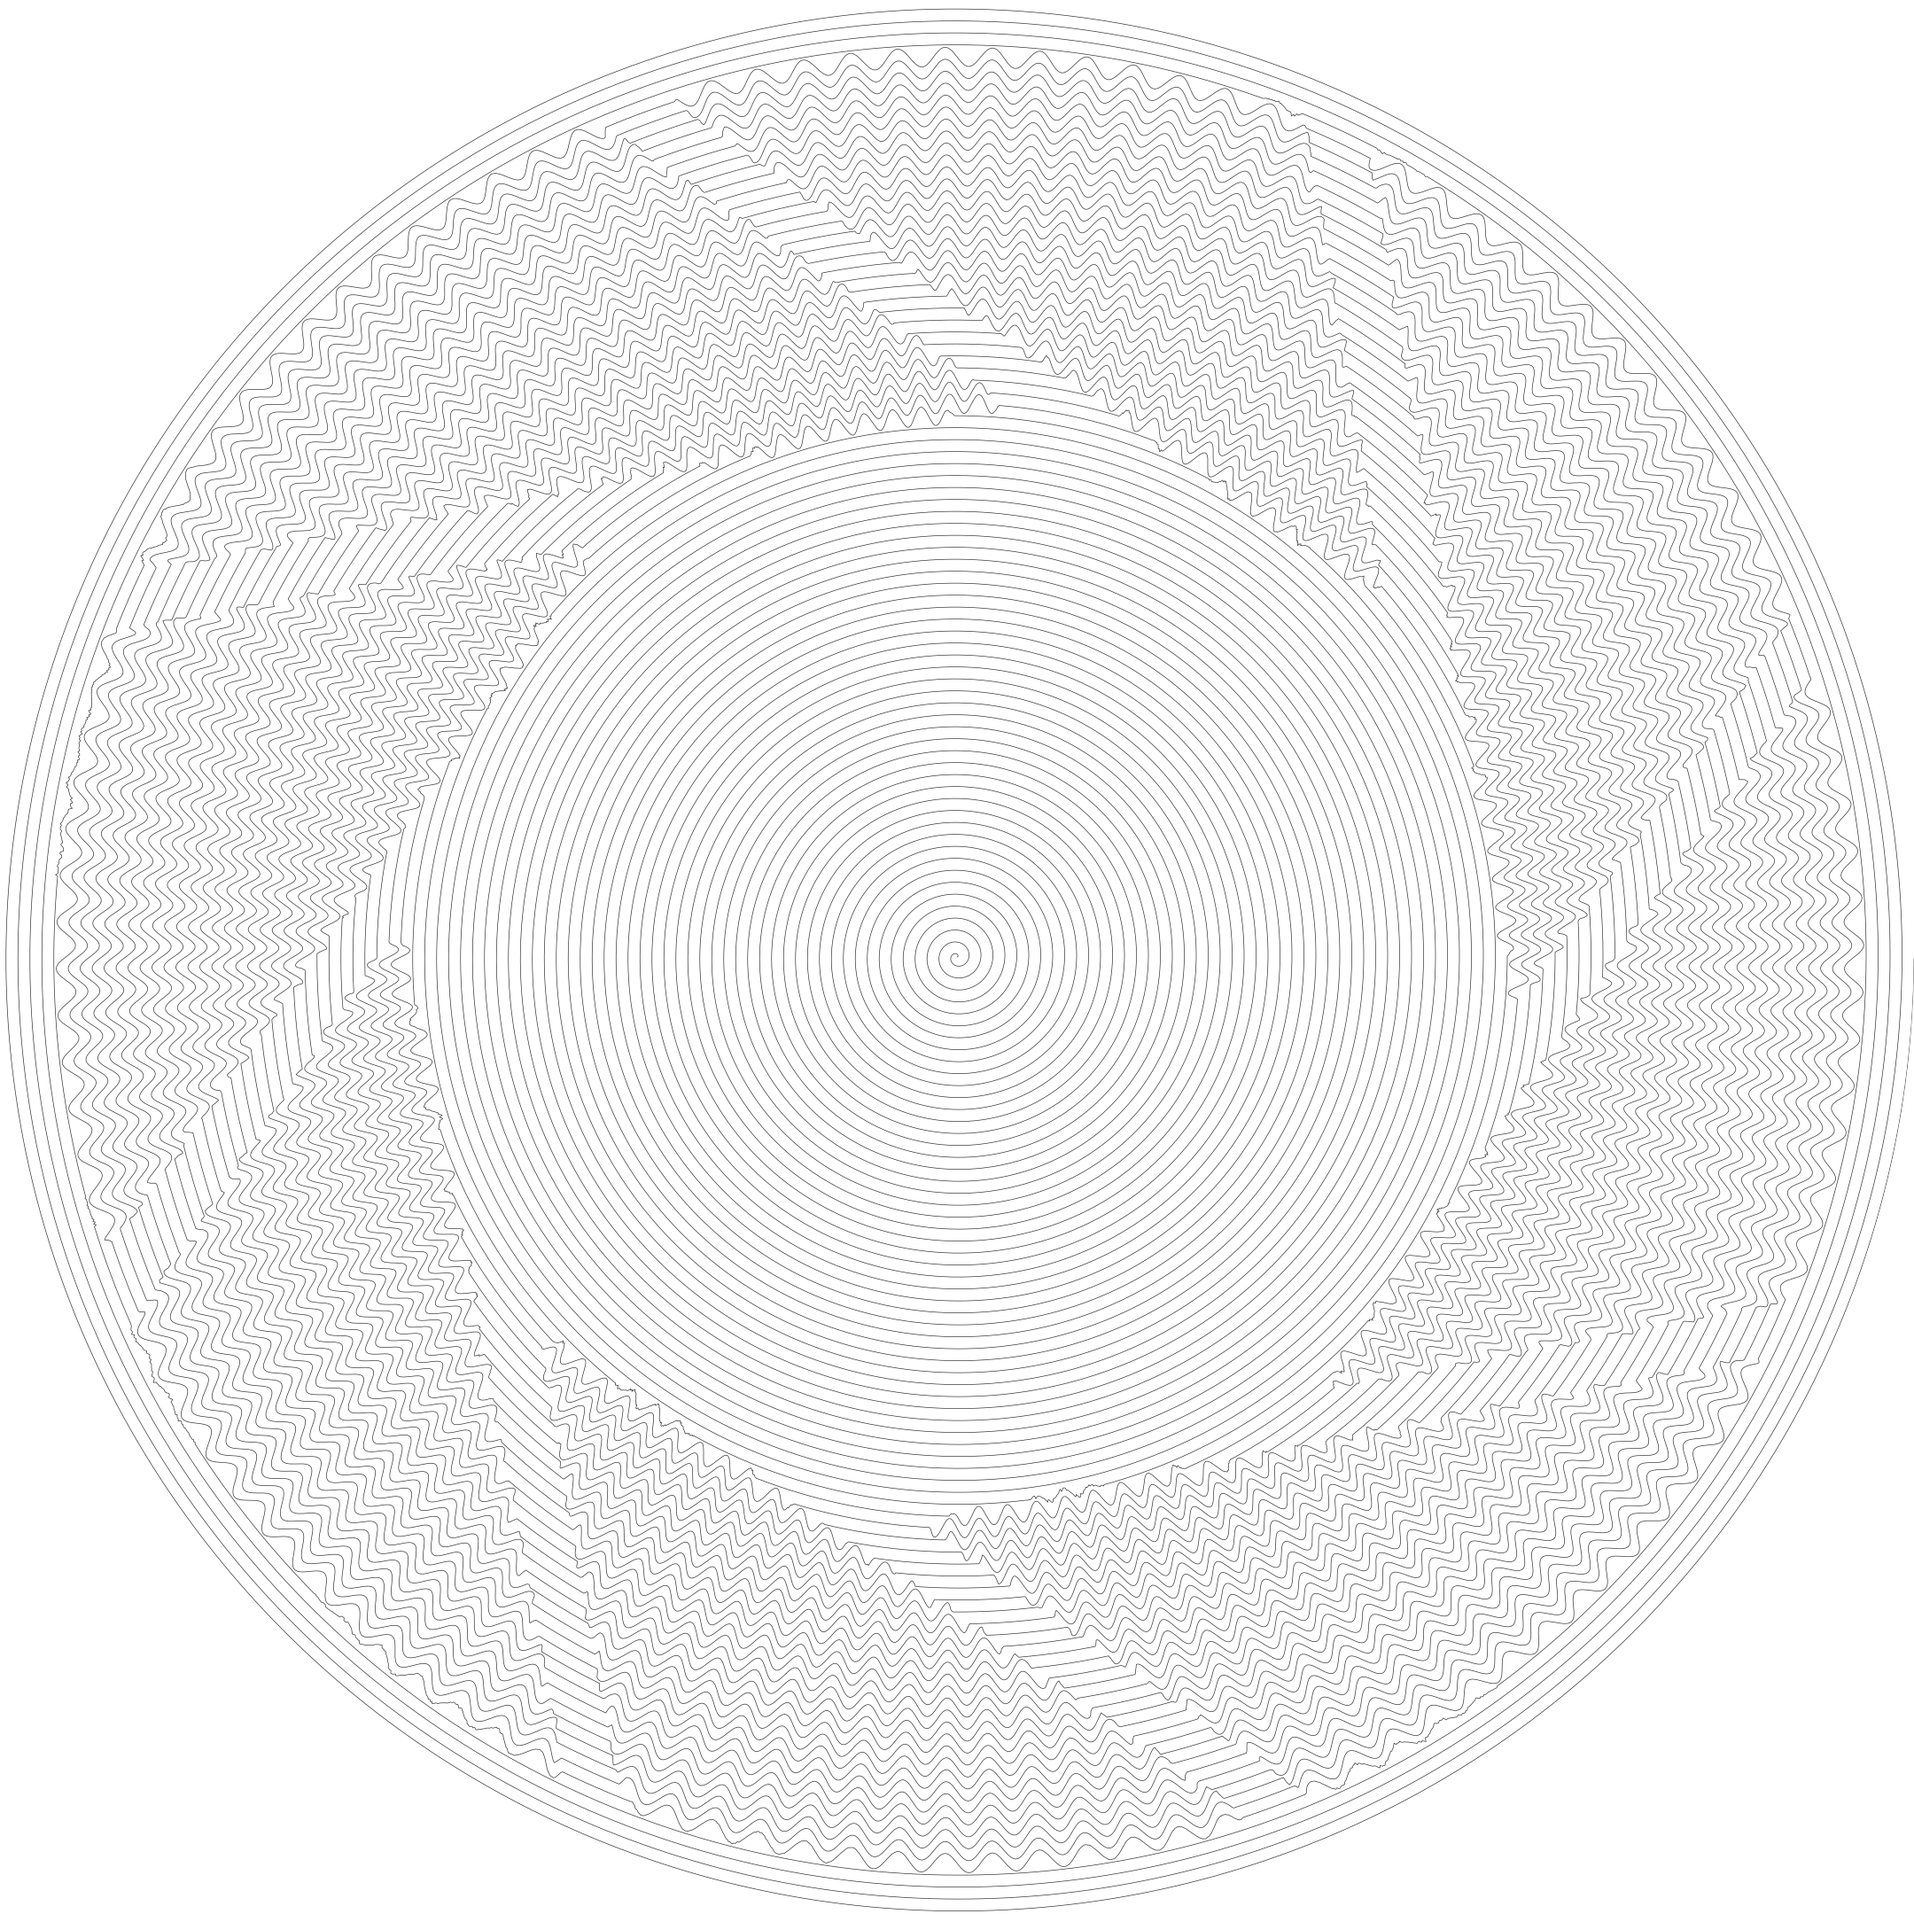
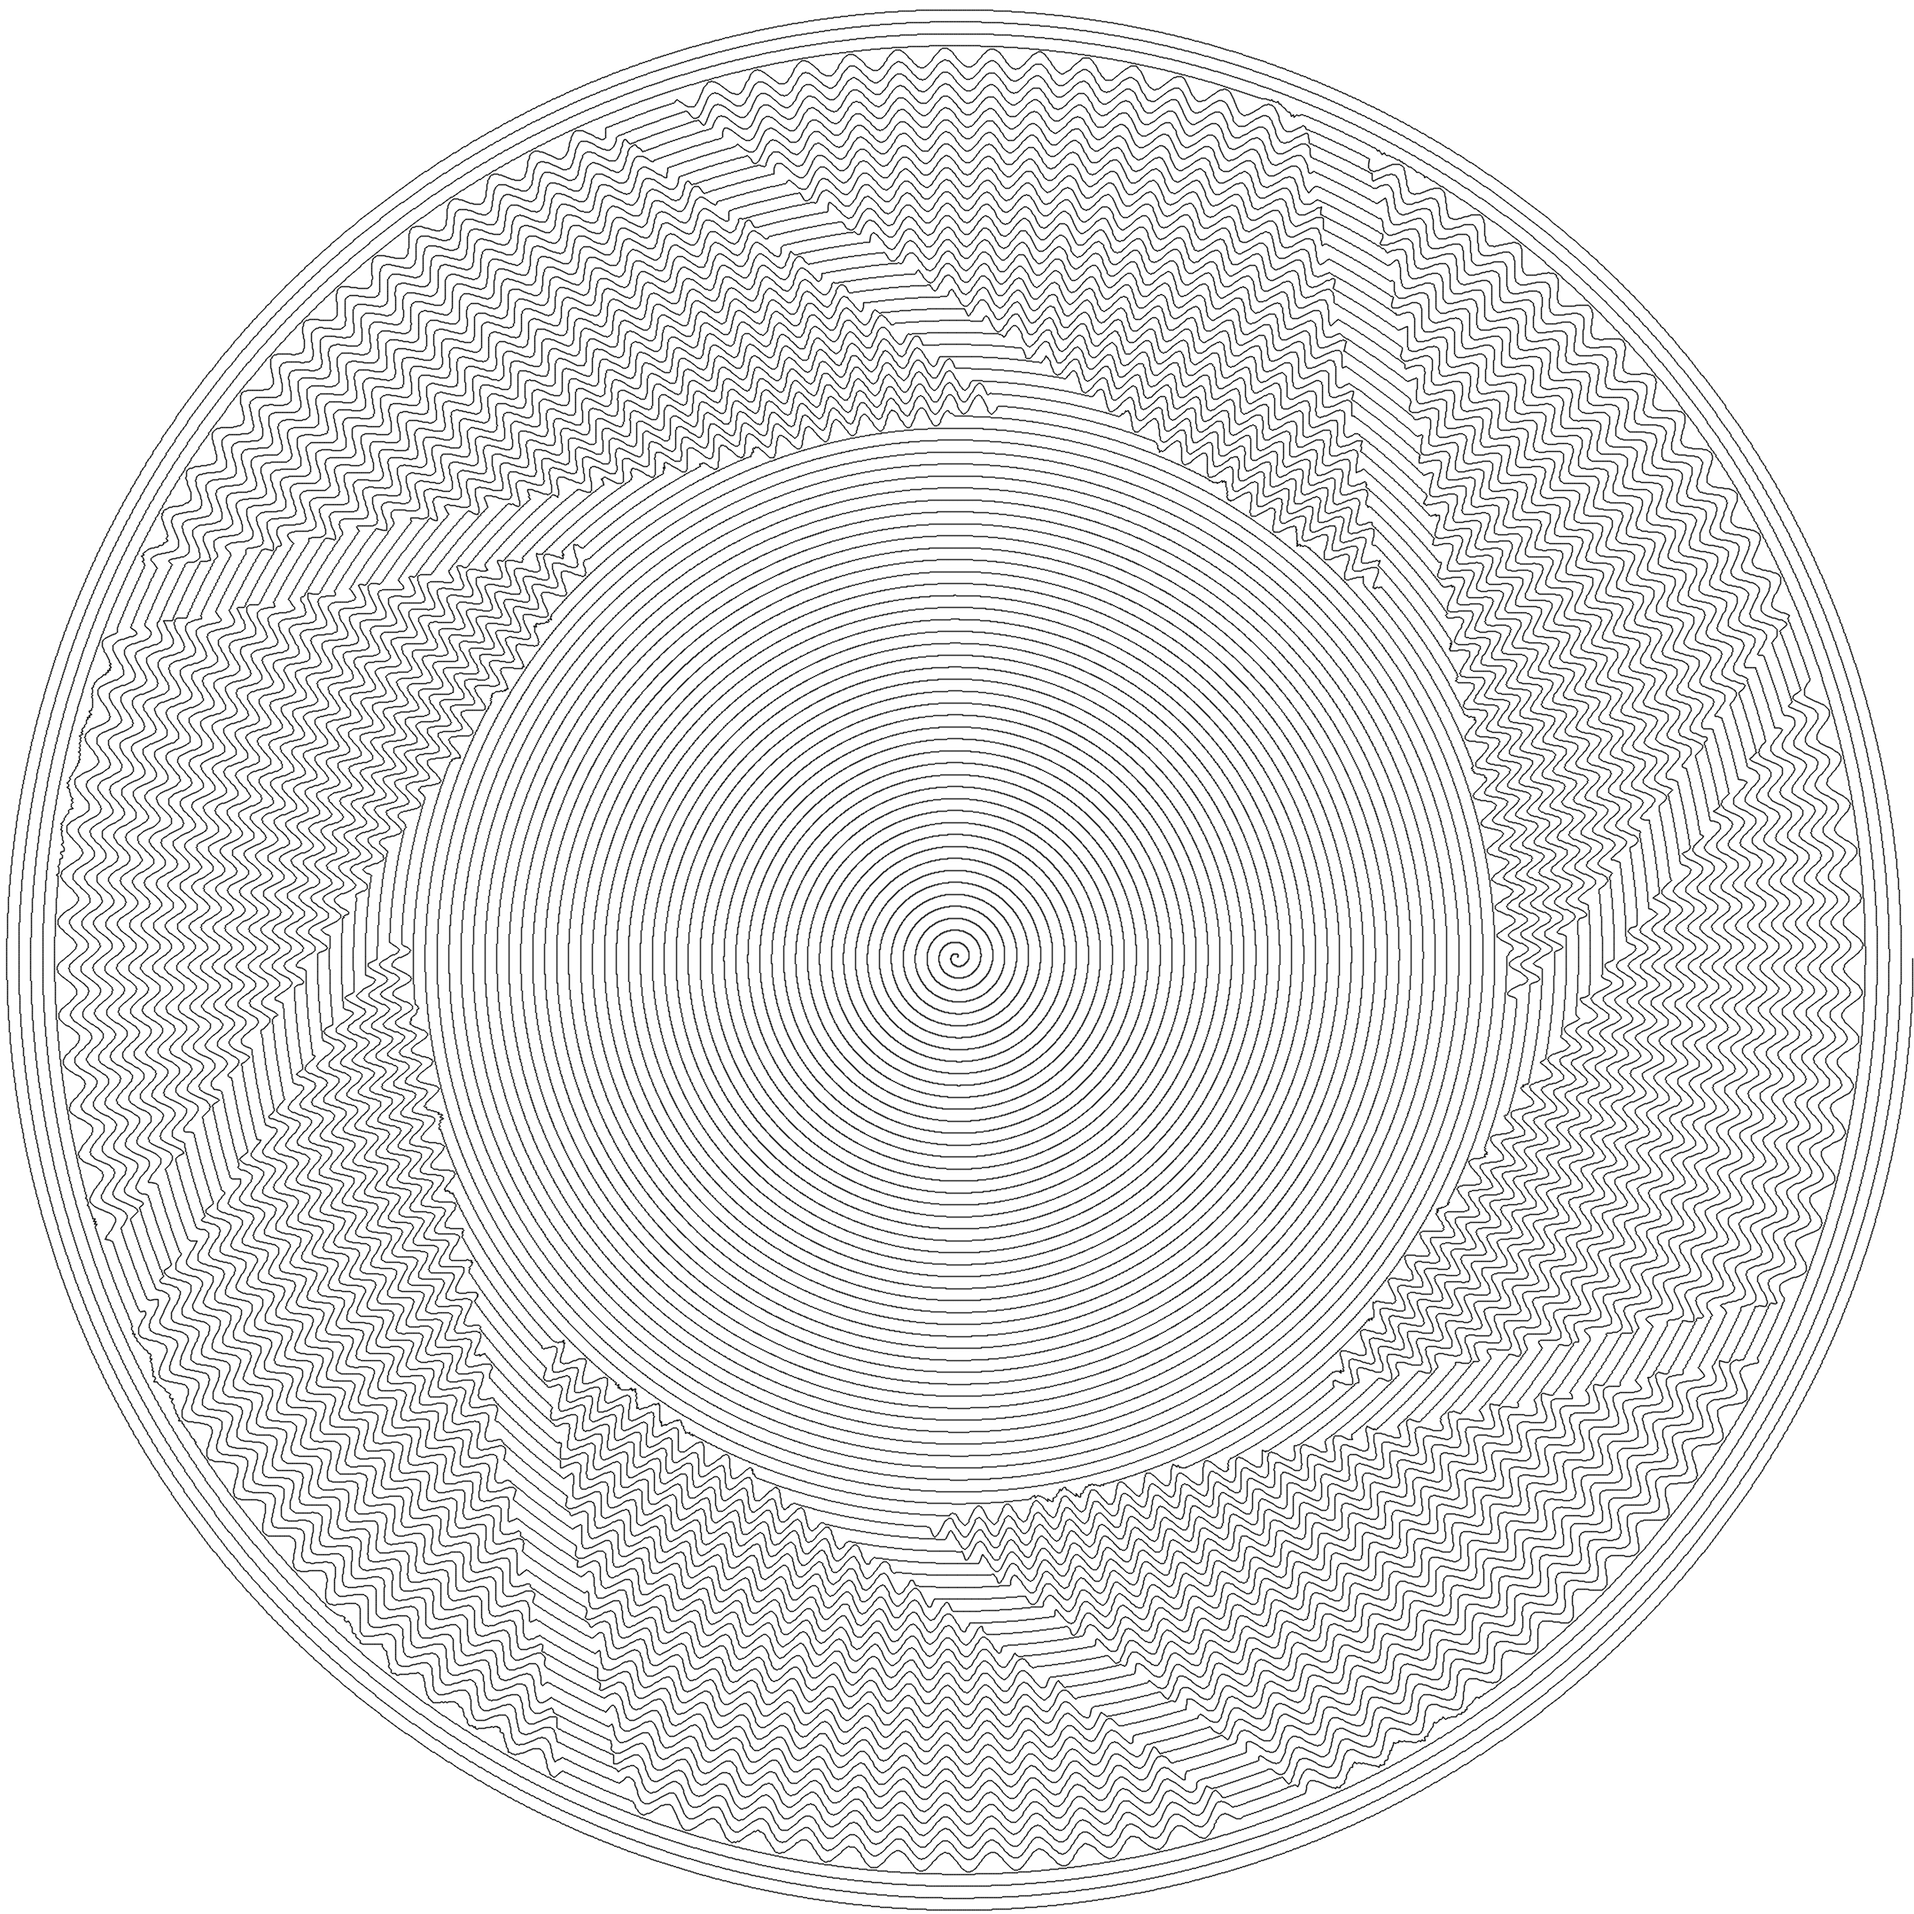
Sync by Android_Freeman at 周四 2026/04/09  9:08:37.36

Changed region(s): [[0.0, 0.0, 1.0, 1.0]]

diff --git a/xue.py b/xue.py
@@ -4,53 +4,96 @@ import math
 
 def generate_correct_orientation_spiral():
     img = cv2.imread('test_input.jpg', cv2.IMREAD_GRAYSCALE)
+    # 来读一个文件, 并转化成黑白照片
     if img is None:
         return
+    # 没找到图片就润
+
+    # Part 1
+    # 这一块是用来做前期处理的, 相当于初始化了
 
     h, w = img.shape
+    # 量一下长宽
     size = min(h, w)
+    # 设定一个正方形先
     start_y = (h - size) // 2
     start_x = (w - size) // 2
+    # 起始位置在画面中心
     img = img[start_y:start_y+size, start_x:start_x+size]
-
+    # 切一个正方形先
     img = cv2.normalize(img, None, 0, 255, cv2.NORM_MINMAX)
+    # 调整一下对比度
+    # 这个函数是
     _, img = cv2.threshold(img, 127, 255, cv2.THRESH_BINARY)
+    # 保守派觉得激进派太保守了, 去掉灰色部分
+    # 这个函数是
     img = cv2.GaussianBlur(img, (5, 5), 0)
+    # 给照片来个磨皮
+
+    # Part 2
+    # 我们来走线
 
     num_spirals = 80
+    # 画多少圈
     steps_per_spiral = 4000
+    # 画一圈取多少个点
     total_steps = num_spirals * steps_per_spiral
+    # 总共有多少个点
     max_theta = num_spirals * 2 * math.pi
+    # 总共要转多少度
 
     i_array = np.arange(total_steps)
+    # 写编号
     thetas = (i_array / total_steps) * max_theta
+    # 算转到什么角度位置
     base_rhos = i_array / total_steps
+    # 算离圆心多远
 
     r_pixels = base_rhos * (size / 2.0 - 1)
+    # 算真实距离
     xs = np.clip(size / 2.0 + r_pixels * np.cos(thetas), 0, size - 1).astype(int)
+    # 算横坐标
     ys = np.clip(size / 2.0 - r_pixels * np.sin(thetas), 0, size - 1).astype(int)
+    # 算纵坐标
 
     darkness = 1.0 - (img[ys, xs] / 255.0)
+    # 扣像素, 看看灰度
 
     fixed_freq = 120
+    # 抖动频率
     track_distance = 1.0 / num_spirals
+    # 间距
     max_amplitude = track_distance * 0.8
+    # 抖动最大幅度
 
     wobbles = np.where(darkness > 0.1, max_amplitude * darkness * np.sin(fixed_freq * thetas), 0.0)
     final_rhos = np.clip(base_rhos + wobbles, 0.0, 1.0)
+    # 平滑加上抖动
+
+    # Part 3
+    # 存入数据
 
     data_to_save = np.column_stack((thetas, final_rhos))
+    # 两个数据拼在一起
     np.savetxt('rocky_mountain_way.thr', data_to_save, fmt='%.4f %.4f')
+    # 存数据, 给机器人看的图纸
 
     draw_rs = final_rhos * (size / 2.0 - 1)
+    # 轨迹换算像素
     draw_xs = np.clip(size / 2.0 + draw_rs * np.cos(thetas), 0, size - 1).astype(np.int32)
+    # 抖动后横坐标
     draw_ys = np.clip(size / 2.0 - draw_rs * np.sin(thetas), 0, size - 1).astype(np.int32)
+    # 抖动后纵坐标
 
     preview_img = np.full((size, size), 255, dtype=np.uint8)
+    # 来一张正方形的白画板
     points = np.column_stack((draw_xs, draw_ys)).reshape((-1, 1, 2))
+    # 坐标点打包    
     cv2.polylines(preview_img, [points], isClosed=False, color=0, thickness=1, lineType=cv2.LINE_AA)
+    # 画线
 
     cv2.imwrite('rocky_mountain_way_preview.png', preview_img)
+    # 存入png图片
 
 if __name__ == '__main__':
     generate_correct_orientation_spiral()
